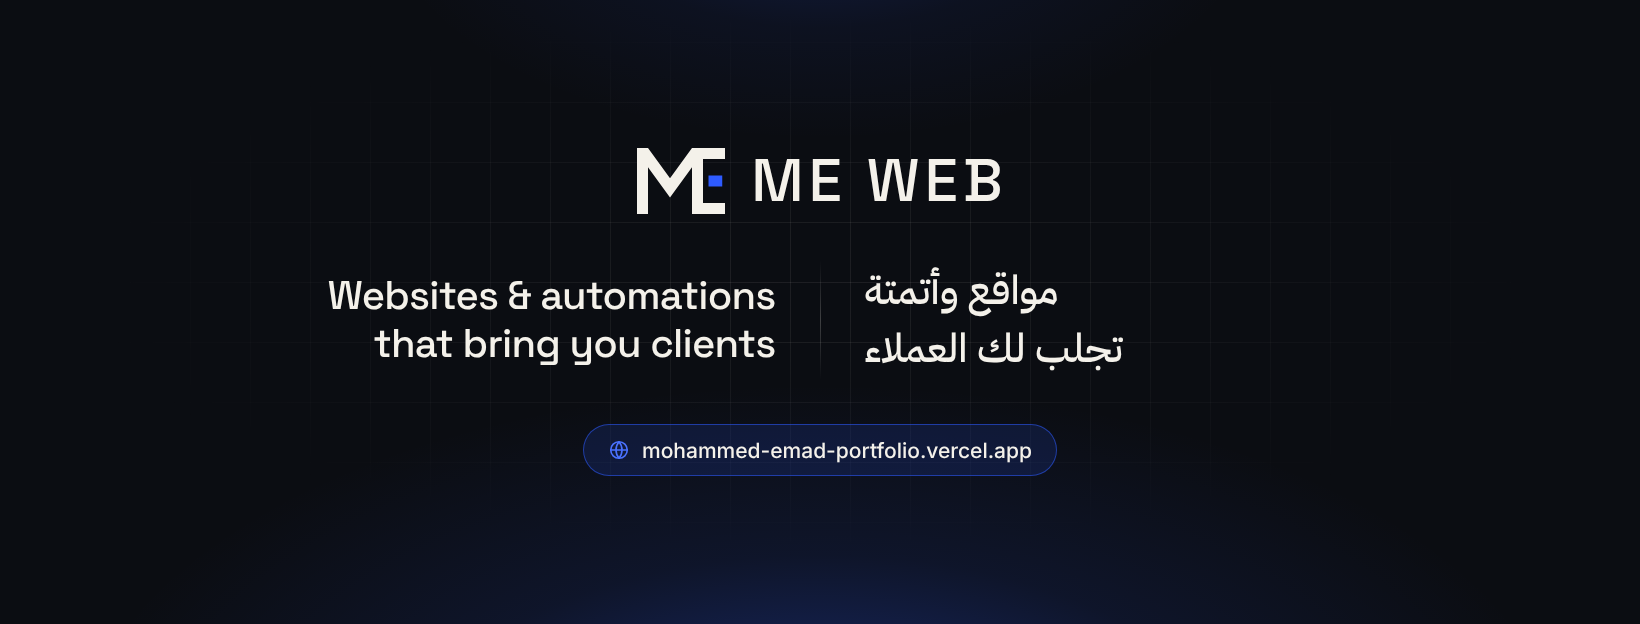
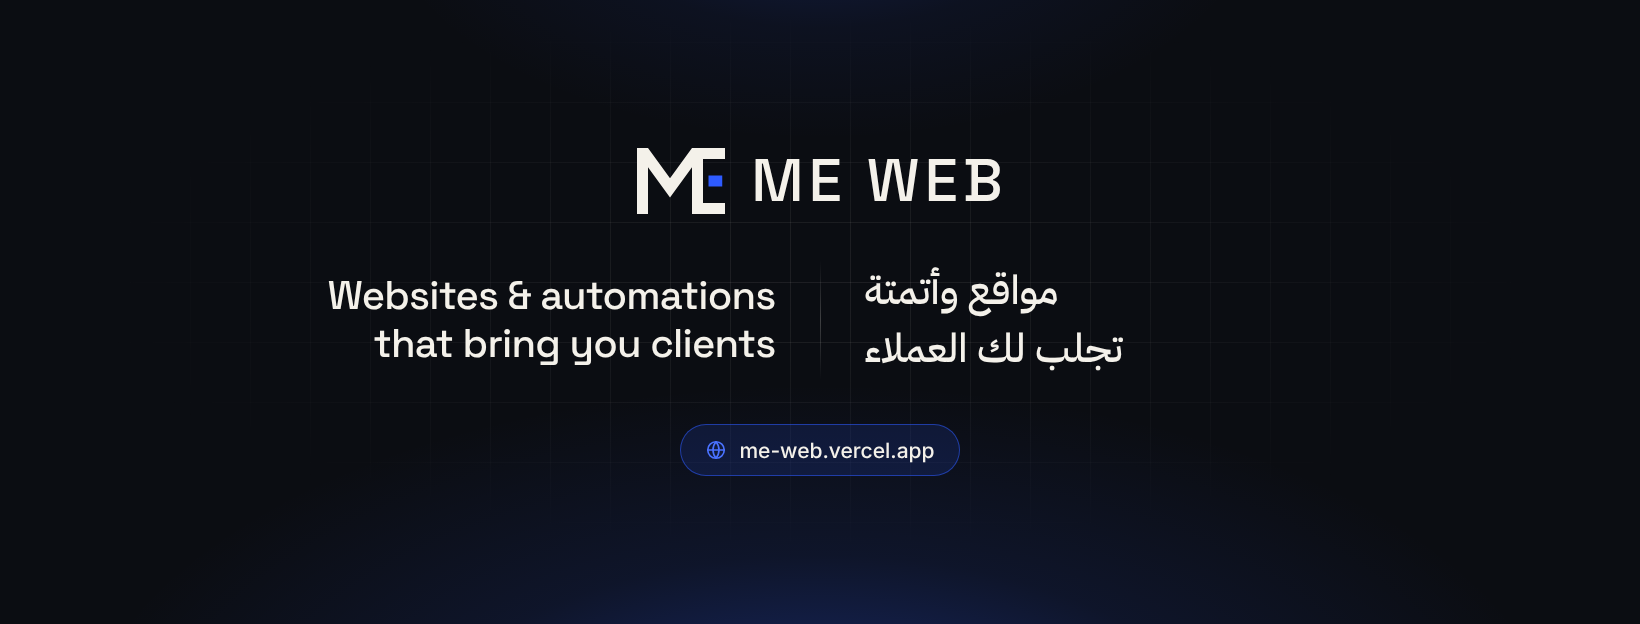
Facebook cover: show me-web.vercel.app
Claude-Session: https://claude.ai/code/session_011H3y8ddzUaxvKRhzJsDCke

Changed region(s): [[0.3421, 0.6699, 0.653, 0.7612]]

diff --git a/brand/social/source/cover-facebook.html b/brand/social/source/cover-facebook.html
@@ -49,6 +49,6 @@
       <div class="side ar"><h2>مواقع وأتمتة<br>تجلب لك العملاء</h2></div>
     </div>
     <!-- Website link: change the text below if your address is different. -->
-    <div class="link"><svg viewBox="0 0 24 24" fill="none" stroke-width="1.8" stroke-linecap="round"><circle cx="12" cy="12" r="9"/><path d="M3 12h18M12 3a14 14 0 0 1 0 18M12 3a14 14 0 0 0 0 18"/></svg><span>mohammed-emad-portfolio.vercel.app</span></div>
+    <div class="link"><svg viewBox="0 0 24 24" fill="none" stroke-width="1.8" stroke-linecap="round"><circle cx="12" cy="12" r="9"/><path d="M3 12h18M12 3a14 14 0 0 1 0 18M12 3a14 14 0 0 0 0 18"/></svg><span>me-web.vercel.app</span></div>
   </div>
 </body></html>
